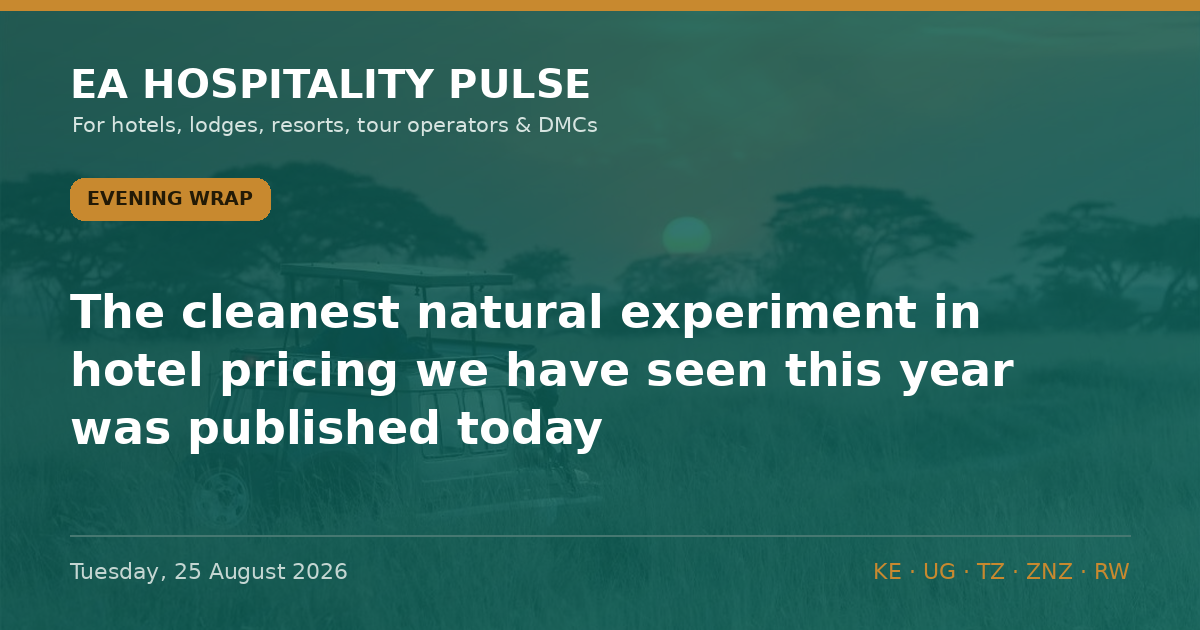
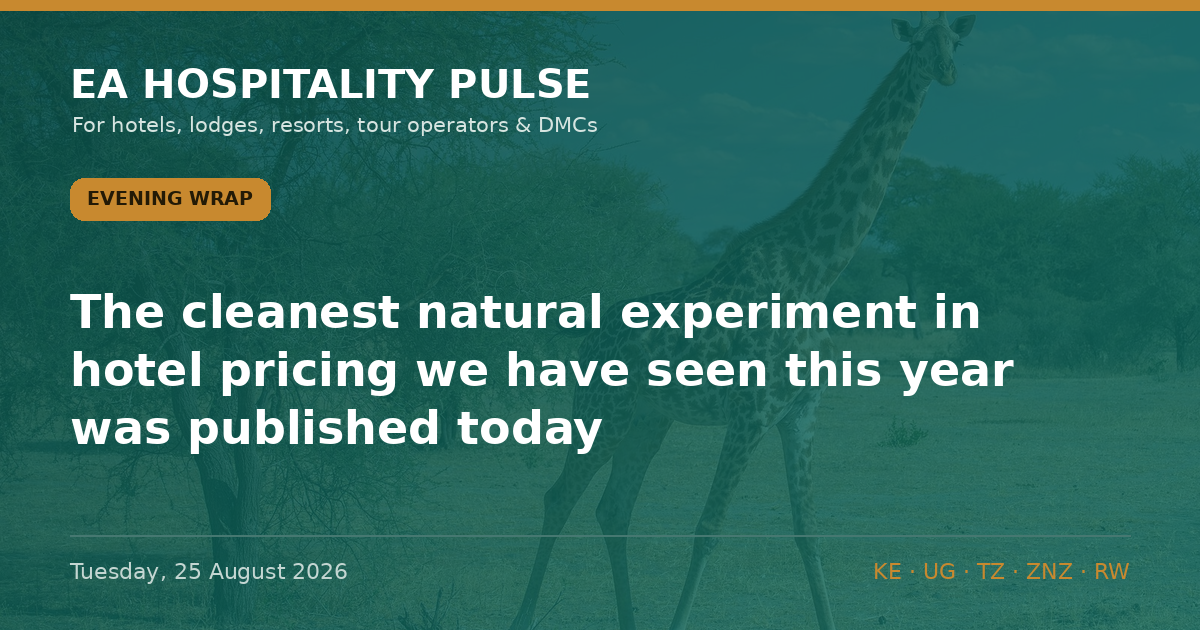
Auto-build: 2026-08-25 13:51 UTC

diff --git a/data.js b/data.js
@@ -117,15 +117,6 @@ window.EDITIONS = [
   "bodyHtml": "<p>☀ <strong>MORNING BRIEF — Tue 19 Aug 2026</strong><br><em>Quiet news slot — one expert read that matters more than any headline.</em></p>\n<p><strong>YOUR FASTEST-GROWING GUEST IS YOUR NEIGHBOUR — AND YOUR GOVERNMENT IS TAXING THEM AT THE BASE</strong></p>\n<p>Read the 2025 source-market tables and the story stops being about Europe. Uganda sent Kenya <strong>234,556 visitors in 2025 — 31% of all African arrivals, up 8.7%</strong>; Tanzania <strong>209,536, up 7.7%</strong> (KTB/TRI data via POATE 2026, reported by Citizen Digital &amp; New Vision). Kenya now targets <strong>300,000 Ugandan arrivals</strong>. In Rwanda it&#x27;s starker: the <strong>DRC is now the single largest source market — 185,420 visitors in H1 2026, 12.5% of all international arrivals</strong> (RDB). The regional guest is the base load now, not the overflow.</p>\n<p><strong>What most operators miss:</strong> the guest base changed but the playbook didn&#x27;t. The marginal booking now comes from a traveller who ignores Western Level-3 advisories, books short, drives or short-hauls in, and pays in a regional currency — yet we still run a long-haul-dollar operation: USD rack rates, GDS/OTA distribution, risk comms aimed at Europe. Worse, the same treasuries celebrating this demand are taxing its most price-sensitive flyer. Kenya&#x27;s JKIA passenger levy is now <strong>pledged to bondholders</strong> (Business Daily, 24 Jul) — hard to cut — with a 2% short-term-rental levy and a proposed travel-health-insurance charge stacking on top. Regional demand shrugs off advisories but is exquisitely sensitive to a $20 levy.</p>\n<p><span class=\"sowhat\">🎯 <strong>So what — by segment:</strong></span><br>🏙 <strong>City:</strong> regional corporate, VFR and events traffic is your steadiest base — build regional-agent and WhatsApp distribution, quote in regional terms, not just a USD rack. 🌿 <strong>Bush:</strong> regional guests are lower-ADR but fill shoulder/low season and hedge advisory-driven long-haul softness — watch the total trip cost, because a park-fee-plus-air-levy stack is what loses them. 🏖 <strong>Beach:</strong> the drive-and-short-haul market (Ugandans/Tanzanians to Diani &amp; Mombasa, regional flyers to Zanzibar) is now year-round base load — protect it from feeder-route fragility and levy creep.<br><span class=\"tagline\">🏷 Regional · Confirmed (KTB/TRI 2025, RDB H1 2026) / Inference on operator response.</span></p>\n<hr class=\"divider\">\n<p>✅ <strong>STILL TRUE</strong> — No EA advisory moved. Kenya <strong>US Level 2</strong> (core corridors, Diani, Watamu clear); Tanzania &amp; Zanzibar <strong>Level 3</strong> (since 31 Oct 2025); Uganda <strong>US Level 4</strong> on residual Ebola grounds despite its 28 Jul outbreak-over call (travel.state.gov, verified 12 Aug). The regional guest travels through all of it — don&#x27;t discount as though it had lifted.<br>💷 <strong>COST PULSE</strong> — Price regional in regional money: KES→UGX <strong>28.36</strong> · KES→TZS <strong>20.30</strong> · KES→RWF <strong>11.31</strong> (CBK weekly). Kenya diesel <strong>KSh 217.86/L</strong> (EPRA, 14 Aug) — refuse any supplier fuel surcharge this cycle.<br><span class=\"meta-line\">📅 <strong>WEEK AHEAD</strong> — <strong>19–21 Aug</strong> Hotel Expo Kenya, KICC · <strong>18–20 Aug</strong> AfPIF, Kigali Marriott · late Aug KNBS/UBOS/NISR CPI · <strong>26–28 Aug</strong> Africa Global PR Week, Nairobi · <strong>4 Sep</strong> Kwita Izina, Musanze.</span><br><span class=\"meta-line\">📡 <strong>RADAR</strong> — 470 in-window observations to 08:38 EAT; feed live. No EA advisory moved (only Mauritania/Netherlands/Ecuador flagged). Jambojet &amp; Airlink press pages moved behind Incapsula — a persistent blind spot, not news. Kenya Law feed heavy with court judgments, none hospitality.</span></p>\n<p>🔗 This edition on the web: <a href=\"https://eahospitalitypulse.com/editions/pulse-2026-08-19-morning.html\" rel=\"noopener\">eahospitalitypulse.com/editions/pulse-2026-08-19-mornin…</a></p>"
  },
  {
-  "id": "pulse-2026-08-18-special",
-  "date": "2026-08-18",
-  "dateDisplay": "Tuesday, 18 August 2026",
-  "edition": "Morning Brief",
-  "editionKey": "morning",
-  "summary": "1⃣ 🇰🇪 THE COAST IS OUTGROWING THE GATEWAY — AND THE NATIONAL NUMBER HIDES IT",
-  "bodyHtml": "<p>📊 <strong>EA HOSPITALITY PULSE — Special Edition</strong><br>🗓 Tuesday 18 August 2026 | 🇰🇪 KNBS data drop</p>\n<p><em>Kenya&#x27;s arrivals are up — but not where the headline says. Read the map before the margin.</em><br>━━━━━━━━━<br><strong>1⃣ 🇰🇪 THE COAST IS OUTGROWING THE GATEWAY — AND THE NATIONAL NUMBER HIDES IT</strong></p>\n<p>Official visitor arrivals now run through April. Jan–Apr 2026: <strong>828,830, up 9.5%</strong> on the same months of 2025 (757,245) — Kenya Leading Economic Indicators, June 2026, KNBS, released 14 Aug.</p>\n<p>The headline is real. The distribution is the story. Mombasa&#x27;s Moi International (MIA) took <strong>96,701 arrivals, up 19.7%</strong> year-on-year, while JKIA grew <strong>8.5%</strong> and land borders <strong>7.5%</strong>. The coast is recovering over twice as fast as the Nairobi gateway.</p>\n<p><strong>What everyone is missing:</strong> the +9.5% is not evenly yours. In April — the long-rains trough — national arrivals rose just 2.9% and <strong>JKIA fell 1.0%</strong> YoY. Strip the coast out and the city-gateway recovery is modest and seasonal. A Nairobi GM reading &quot;+9.5%&quot; as their own demand is reading the wrong line. Backing it: SGR passengers ran <strong>~12% ahead</strong> in Q1 — the Nairobi–Mombasa corridor is carrying this (KNBS).</p>\n<p><span class=\"tagline\">🏷 City/Beach · Kenya · Confirmed (KNBS arrivals &amp; SGR) / Inference (regional read)</span><br><span class=\"sowhat\">🎯 <strong>So what:</strong> <strong>Coast</strong> — demand is arriving; hold rate through the Sep–Oct build and stop discounting. <strong>Nairobi</strong> — treat H1 as flat-to-soft on your own gateway; win share through corporate, MICE and regional traffic, not a rising tide.</span></p>\n<p><strong>2⃣ 🇰🇪 THE CURRENCY IS QUIETLY REPRICING YOUR EUROPEAN GUEST</strong></p>\n<p>Over H1 2026 the shilling <strong>firmed</strong> against sterling (174.32→<strong>172.72</strong>) and the euro (151.37→<strong>149.22</strong>), flat against the dollar at <strong>~129.5</strong> (KNBS, June). Inflation sat at <strong>6.4%</strong>, the CBR held at <strong>8.75%</strong>.</p>\n<p>Read together: a European operator&#x27;s fixed FX budget now buys <strong>fewer shillings</strong> than in January — mild pressure on any KES-cost property selling into Europe, while dollar-priced lodges keep their spread intact.</p>\n<p><span class=\"tagline\">🏷 City/Bush/Beach · Kenya · Confirmed (KNBS forex/CPI) / Inference (pricing read)</span><br><span class=\"sowhat\">🎯 <strong>So what:</strong> If you cost in shillings and sell in euros or pounds, revisit 2027 contract rates now — the FX drift is against you. Price in USD and you&#x27;re insulated.</span></p>\n<p>━━━━━━━━━<br>🍲 <strong>SUPPLY-CHAIN SIDEBAR — where your southern-circuit kitchen shops</strong></p>\n<p>Informal cross-border trade <strong>fell 16.7%</strong> in 2025 (KSh 299.0m→249.1m), and <strong>Tanzania became the top source of informal imports at 47.2%</strong>, overwhelmingly <strong>food and live animals (78.5%)</strong> — KNBS Informal Cross-Border Trade Survey 2025, released 17 Aug. Main entry points: <strong>Namanga, Isebania, Malaba</strong> — the Amboseli, Mara and Uganda corridors.</p>\n<p><span class=\"sowhat\">🎯 <strong>So what:</strong> Southern-circuit lodges run partly on this informal Tanzanian fresh-food flow. A contracting, Tanzania-concentrated supply line is a produce-cost and continuity risk — worth a word with your F&amp;B suppliers before high season. 🏷 Bush · Confirmed (KNBS ICBT) / Inference.</span></p>\n<p>━━━━━━━━━<br>✅ <strong>STILL TRUE</strong> — Kenya remains US <strong>Level 2</strong>; core corridors (Nairobi, Diani, Watamu) sit in no Level 4 area (travel.state.gov, verified 12 Aug). Don&#x27;t discount on a story that hasn&#x27;t moved.</p>\n<p>⚡ <strong>COST PULSE</strong> — Nairobi diesel holds <strong>KSh 217.86/L</strong> to 14 Sep, ~KSh 14.28/L above landed-cost parity (EPRA / Business Daily, 14 Aug).</p>\n<p><span class=\"meta-line\">📅 <strong>WEEK AHEAD</strong> — <strong>19–21 Aug</strong> Hotel Expo Kenya, KICC · <strong>26–28 Aug</strong> Africa Global PR Week, Nairobi. Watch the <strong>May–June arrivals</strong> print to confirm the coast trend.</span></p>\n<p>🔗 This edition on the web: <a href=\"https://eahospitalitypulse.com/editions/pulse-2026-08-18-special.html\" rel=\"noopener\">eahospitalitypulse.com/editions/pulse-2026-08-18-specia…</a><br>— EA Hospitality Pulse | Daily intelligence for city, bush &amp; beach properties</p>"
- },
- {
   "id": "pulse-2026-08-18-morning",
   "date": "2026-08-18",
   "dateDisplay": "Tuesday, 18 August 2026",
@@ -133,6 +124,15 @@ window.EDITIONS = [
   "editionKey": "morning",
   "summary": "1⃣ 🌍 THE AIRLIFT YOU'RE CELEBRATING IS THE LEAST PROFITABLE IN THE WORLD",
   "bodyHtml": "<p>🌅 <strong>EA HOSPITALITY PULSE — Morning Brief</strong><br>🗓 Tuesday 18 August 2026 | 🌍 🇰🇪 🇺🇬 🇷🇼 🇹🇿</p>\n<p><em>Expert Brief: East Africa is adding air routes faster than its airlines can afford to fly them.</em><br>━━━━━━━━━<br><strong>1⃣ 🌍 THE AIRLIFT YOU&#x27;RE CELEBRATING IS THE LEAST PROFITABLE IN THE WORLD</strong></p>\n<p>Every route launch lands as good news in this business. Uganda Airlines opens Entebbe–Accra on 27 Oct and daily Entebbe–Kigali on 18 Nov (announced 5 Aug, The EastAfrican); Airlink starts Cape Town–Zanzibar on 3 Oct. Read the balance sheet underneath and the mood changes.</p>\n<p>IATA&#x27;s December outlook put African carriers at <strong>US$1.30 of profit per passenger</strong> for 2026 against a <strong>US$7.90</strong> global average — a <strong>1.3% margin, the thinnest of any region</strong> (IATA, 9 Dec 2025). By its June AGM it had cut the 2026 line again: profit per passenger down to <strong>40 US cents</strong> from US$2.10 in 2025, and the continent&#x27;s total net profit halved to <strong>~US$100m</strong> (IATA &quot;Energy in Crisis&quot; outlook, 8 Jun 2026). East Africa&#x27;s recovery is riding on the most fragile airlift economics on the planet.</p>\n<p><strong>What everyone is missing:</strong> a new-route press release reads as demand arriving. It is actually thin-margin capacity being <strong>lent</strong> — and thin-margin capacity is the first thing cut when a season underperforms. Turkish suspended 18 routes for summer 2026, Istanbul–Dar es Salaam among them, final flights in May/June (reported 2026). The route you don&#x27;t help fill in its first two seasons is the route that isn&#x27;t there in year three. Airlift is not infrastructure you inherit; it&#x27;s a trade relationship you keep alive.</p>\n<p><span class=\"tagline\">🏷 City/Bush/Beach · Regional · Confirmed (IATA figures &amp; schedules) / Inference (fragility read)</span><br><span class=\"sowhat\">🎯 <strong>So what — by segment:</strong> <strong>City</strong> (Nairobi/Kigali/Kampala): put corporate blocks and MICE contracts onto the new regional frequencies so they survive to a third season. <strong>Bush:</strong> the luxury pivot means fewer, higher-value guests who still need a long-haul seat — cultivate the carriers that actually serve your source markets. <strong>Beach:</strong> feeder routes are the most fragile of all — a trial like Cape Town–Zanzibar lives or dies on load factor. Fill it or lose it.</span></p>\n<p>━━━━━━━━━<br>✅ <strong>STILL TRUE</strong> — Tanzania &amp; Zanzibar remain US <strong>Level 3</strong> (unchanged since 31 Oct 2025); Kenya <strong>Level 2</strong>, core tourist corridors clear (travel.state.gov, verified 12 Aug). Nothing moved overnight. Don&#x27;t discount as though it had.</p>\n<p>⚡ <strong>COST PULSE</strong> — Nairobi diesel holds at <strong>KSh 217.86/L</strong> to 14 Sep; operators are carrying roughly <strong>KSh 14.28/L above landed-cost parity</strong> — refuse any supplier fuel surcharge this cycle (EPRA / Business Daily, 14 Aug).</p>\n<p>🎤 <strong>MICE WATCH</strong> — <strong>AfPIF</strong> (300–500 delegates) fills the Kigali Marriott cluster <strong>18–20 Aug</strong>; <strong>Hotel Expo Kenya</strong> at KICC, <strong>19–21 Aug</strong>. Hold corporate rate, don&#x27;t discount into the shoulder.</p>\n<p><span class=\"meta-line\">📅 <strong>WEEK AHEAD</strong> — <strong>18 Aug</strong> WHO IHR Committee on the Bundibugyo PHEIC · <strong>22 Aug</strong> Julius Nyerere hydropower inauguration, TZ · <strong>26–28 Aug</strong> Africa Global PR Week, Mövenpick Nairobi · <strong>28 Aug</strong> WTA Africa Gala, Zanzibar · <strong>late Aug</strong> KNBS/UBOS/NISR CPI prints.</span></p>\n<p><span class=\"meta-line\">📡 <strong>RADAR</strong> — 593 in-window observations to 08:17 EAT; feed live. Jambojet and Airlink press pages moved again behind Incapsula — a persistent blind spot, not a quiet night. Kenya Law feed heavy with court judgments, none hospitality. No advisory level moved.</span></p>\n<p><span class=\"meta-line\">💬 Which inbound route would you actually miss — and are you filling it, or just watching it?</span></p>\n<p>🔗 This edition on the web: <a href=\"https://eahospitalitypulse.com/editions/pulse-2026-08-18-morning.html\" rel=\"noopener\">eahospitalitypulse.com/editions/pulse-2026-08-18-mornin…</a><br>— EA Hospitality Pulse | Daily intelligence for city, bush &amp; beach properties</p>"
+ },
+ {
+  "id": "pulse-2026-08-18-special",
+  "date": "2026-08-18",
+  "dateDisplay": "Tuesday, 18 August 2026",
+  "edition": "Morning Brief",
+  "editionKey": "morning",
+  "summary": "1⃣ 🇰🇪 THE COAST IS OUTGROWING THE GATEWAY — AND THE NATIONAL NUMBER HIDES IT",
+  "bodyHtml": "<p>📊 <strong>EA HOSPITALITY PULSE — Special Edition</strong><br>🗓 Tuesday 18 August 2026 | 🇰🇪 KNBS data drop</p>\n<p><em>Kenya&#x27;s arrivals are up — but not where the headline says. Read the map before the margin.</em><br>━━━━━━━━━<br><strong>1⃣ 🇰🇪 THE COAST IS OUTGROWING THE GATEWAY — AND THE NATIONAL NUMBER HIDES IT</strong></p>\n<p>Official visitor arrivals now run through April. Jan–Apr 2026: <strong>828,830, up 9.5%</strong> on the same months of 2025 (757,245) — Kenya Leading Economic Indicators, June 2026, KNBS, released 14 Aug.</p>\n<p>The headline is real. The distribution is the story. Mombasa&#x27;s Moi International (MIA) took <strong>96,701 arrivals, up 19.7%</strong> year-on-year, while JKIA grew <strong>8.5%</strong> and land borders <strong>7.5%</strong>. The coast is recovering over twice as fast as the Nairobi gateway.</p>\n<p><strong>What everyone is missing:</strong> the +9.5% is not evenly yours. In April — the long-rains trough — national arrivals rose just 2.9% and <strong>JKIA fell 1.0%</strong> YoY. Strip the coast out and the city-gateway recovery is modest and seasonal. A Nairobi GM reading &quot;+9.5%&quot; as their own demand is reading the wrong line. Backing it: SGR passengers ran <strong>~12% ahead</strong> in Q1 — the Nairobi–Mombasa corridor is carrying this (KNBS).</p>\n<p><span class=\"tagline\">🏷 City/Beach · Kenya · Confirmed (KNBS arrivals &amp; SGR) / Inference (regional read)</span><br><span class=\"sowhat\">🎯 <strong>So what:</strong> <strong>Coast</strong> — demand is arriving; hold rate through the Sep–Oct build and stop discounting. <strong>Nairobi</strong> — treat H1 as flat-to-soft on your own gateway; win share through corporate, MICE and regional traffic, not a rising tide.</span></p>\n<p><strong>2⃣ 🇰🇪 THE CURRENCY IS QUIETLY REPRICING YOUR EUROPEAN GUEST</strong></p>\n<p>Over H1 2026 the shilling <strong>firmed</strong> against sterling (174.32→<strong>172.72</strong>) and the euro (151.37→<strong>149.22</strong>), flat against the dollar at <strong>~129.5</strong> (KNBS, June). Inflation sat at <strong>6.4%</strong>, the CBR held at <strong>8.75%</strong>.</p>\n<p>Read together: a European operator&#x27;s fixed FX budget now buys <strong>fewer shillings</strong> than in January — mild pressure on any KES-cost property selling into Europe, while dollar-priced lodges keep their spread intact.</p>\n<p><span class=\"tagline\">🏷 City/Bush/Beach · Kenya · Confirmed (KNBS forex/CPI) / Inference (pricing read)</span><br><span class=\"sowhat\">🎯 <strong>So what:</strong> If you cost in shillings and sell in euros or pounds, revisit 2027 contract rates now — the FX drift is against you. Price in USD and you&#x27;re insulated.</span></p>\n<p>━━━━━━━━━<br>🍲 <strong>SUPPLY-CHAIN SIDEBAR — where your southern-circuit kitchen shops</strong></p>\n<p>Informal cross-border trade <strong>fell 16.7%</strong> in 2025 (KSh 299.0m→249.1m), and <strong>Tanzania became the top source of informal imports at 47.2%</strong>, overwhelmingly <strong>food and live animals (78.5%)</strong> — KNBS Informal Cross-Border Trade Survey 2025, released 17 Aug. Main entry points: <strong>Namanga, Isebania, Malaba</strong> — the Amboseli, Mara and Uganda corridors.</p>\n<p><span class=\"sowhat\">🎯 <strong>So what:</strong> Southern-circuit lodges run partly on this informal Tanzanian fresh-food flow. A contracting, Tanzania-concentrated supply line is a produce-cost and continuity risk — worth a word with your F&amp;B suppliers before high season. 🏷 Bush · Confirmed (KNBS ICBT) / Inference.</span></p>\n<p>━━━━━━━━━<br>✅ <strong>STILL TRUE</strong> — Kenya remains US <strong>Level 2</strong>; core corridors (Nairobi, Diani, Watamu) sit in no Level 4 area (travel.state.gov, verified 12 Aug). Don&#x27;t discount on a story that hasn&#x27;t moved.</p>\n<p>⚡ <strong>COST PULSE</strong> — Nairobi diesel holds <strong>KSh 217.86/L</strong> to 14 Sep, ~KSh 14.28/L above landed-cost parity (EPRA / Business Daily, 14 Aug).</p>\n<p><span class=\"meta-line\">📅 <strong>WEEK AHEAD</strong> — <strong>19–21 Aug</strong> Hotel Expo Kenya, KICC · <strong>26–28 Aug</strong> Africa Global PR Week, Nairobi. Watch the <strong>May–June arrivals</strong> print to confirm the coast trend.</span></p>\n<p>🔗 This edition on the web: <a href=\"https://eahospitalitypulse.com/editions/pulse-2026-08-18-special.html\" rel=\"noopener\">eahospitalitypulse.com/editions/pulse-2026-08-18-specia…</a><br>— EA Hospitality Pulse | Daily intelligence for city, bush &amp; beach properties</p>"
  },
  {
   "id": "pulse-2026-08-17-evening",
@@ -2917,4 +2917,4 @@ window.INSIGHTS = [
   "editionKey": "evening"
  }
 ];
-window.BUILT_AT = "2026-08-25 16:49";
+window.BUILT_AT = "2026-08-25 13:50";

diff --git a/editions/pulse-2026-08-17-evening.html b/editions/pulse-2026-08-17-evening.html
@@ -170,7 +170,7 @@ footer.s a:hover{color:var(--teal-d);border-bottom-color:var(--gold)}
 <p>🔗 This edition on the web: <a href="https://eahospitalitypulse.com/editions/pulse-2026-08-17-evening.html" rel="noopener">eahospitalitypulse.com/editions/pulse-2026-08-17-evenin…</a><br>💼 Today&#x27;s Big Read on LinkedIn: <a href="https://www.linkedin.com/company/ea-hospitality-pulse/" rel="noopener">linkedin.com/company/ea-hospitality-pulse/</a><br>— EA Hospitality Pulse | Daily intelligence for city, bush &amp; beach properties</p>
     <div class="more"><b>More from Monday, 17 August 2026:</b> <a href="pulse-2026-08-17-midday.html">Midday Pulse</a></div>
     <aside class="refs" aria-label="Reference guides"><h2>Reference</h2><ul><li><a href="../guides/ota-commission-what-it-actually-costs.html">What OTA commission actually costs an East African hotel</a></li><li><a href="../guides/park-permit-fees-east-africa.html">Park and permit fees across East Africa: what to check before you quote</a></li><li><a href="../guides/sustainability-compliance-east-africa.html">Sustainability compliance in East Africa — plastics, carbon and certification, without the hype</a></li><li><a href="../guides/tech-stack-east-africa.html">The East African hotel tech stack — payment costs, PMS fit and where AI pricing actually works</a></li><li><a href="../guides/travel-advisories-what-actually-moves-bookings.html">Reading a travel advisory: what actually moves bookings</a></li></ul></aside>
-    <nav class="pnrow"><a class="pn prev" href="pulse-2026-08-17-midday.html" rel="prev">← Midday Pulse · Monday, 17 August 2026</a><a class="pn next" href="pulse-2026-08-18-morning.html" rel="next">Morning Brief · Tuesday, 18 August 2026 →</a></nav>
+    <nav class="pnrow"><a class="pn prev" href="pulse-2026-08-17-midday.html" rel="prev">← Midday Pulse · Monday, 17 August 2026</a><a class="pn next" href="pulse-2026-08-18-special.html" rel="next">Morning Brief · Tuesday, 18 August 2026 →</a></nav>
     <div class="sub">
       <b>Follow the Pulse</b> — three briefs a day across Kenya, Uganda, Tanzania, Zanzibar &amp; Rwanda.<br>
       <a href="https://t.me/eahospitalitypulse" target="_blank" rel="noopener">📣 Telegram (full editions)</a>

diff --git a/editions/pulse-2026-08-18-morning.html b/editions/pulse-2026-08-18-morning.html
@@ -172,7 +172,7 @@ footer.s a:hover{color:var(--teal-d);border-bottom-color:var(--gold)}
 <p>🔗 This edition on the web: <a href="https://eahospitalitypulse.com/editions/pulse-2026-08-18-morning.html" rel="noopener">eahospitalitypulse.com/editions/pulse-2026-08-18-mornin…</a><br>— EA Hospitality Pulse | Daily intelligence for city, bush &amp; beach properties</p>
     <div class="more"><b>More from Tuesday, 18 August 2026:</b> <a href="pulse-2026-08-18-special.html">Morning Brief</a></div>
     <aside class="refs" aria-label="Reference guides"><h2>Reference</h2><ul><li><a href="../guides/ota-commission-what-it-actually-costs.html">What OTA commission actually costs an East African hotel</a></li><li><a href="../guides/park-permit-fees-east-africa.html">Park and permit fees across East Africa: what to check before you quote</a></li><li><a href="../guides/sustainability-compliance-east-africa.html">Sustainability compliance in East Africa — plastics, carbon and certification, without the hype</a></li><li><a href="../guides/tech-stack-east-africa.html">The East African hotel tech stack — payment costs, PMS fit and where AI pricing actually works</a></li><li><a href="../guides/travel-advisories-what-actually-moves-bookings.html">Reading a travel advisory: what actually moves bookings</a></li></ul></aside>
-    <nav class="pnrow"><a class="pn prev" href="pulse-2026-08-17-evening.html" rel="prev">← Evening Wrap · Monday, 17 August 2026</a><a class="pn next" href="pulse-2026-08-18-special.html" rel="next">Morning Brief · Tuesday, 18 August 2026 →</a></nav>
+    <nav class="pnrow"><a class="pn prev" href="pulse-2026-08-18-special.html" rel="prev">← Morning Brief · Tuesday, 18 August 2026</a><a class="pn next" href="pulse-2026-08-19-morning.html" rel="next">Morning Brief · Wednesday, 19 August 2026 →</a></nav>
     <div class="sub">
       <b>Follow the Pulse</b> — three briefs a day across Kenya, Uganda, Tanzania, Zanzibar &amp; Rwanda.<br>
       <a href="https://t.me/eahospitalitypulse" target="_blank" rel="noopener">📣 Telegram (full editions)</a>

diff --git a/editions/pulse-2026-08-18-special.html b/editions/pulse-2026-08-18-special.html
@@ -176,7 +176,7 @@ footer.s a:hover{color:var(--teal-d);border-bottom-color:var(--gold)}
 <p>🔗 This edition on the web: <a href="https://eahospitalitypulse.com/editions/pulse-2026-08-18-special.html" rel="noopener">eahospitalitypulse.com/editions/pulse-2026-08-18-specia…</a><br>— EA Hospitality Pulse | Daily intelligence for city, bush &amp; beach properties</p>
     <div class="more"><b>More from Tuesday, 18 August 2026:</b> <a href="pulse-2026-08-18-morning.html">Morning Brief</a></div>
     <aside class="refs" aria-label="Reference guides"><h2>Reference</h2><ul><li><a href="../guides/ota-commission-what-it-actually-costs.html">What OTA commission actually costs an East African hotel</a></li><li><a href="../guides/park-permit-fees-east-africa.html">Park and permit fees across East Africa: what to check before you quote</a></li><li><a href="../guides/sustainability-compliance-east-africa.html">Sustainability compliance in East Africa — plastics, carbon and certification, without the hype</a></li><li><a href="../guides/tech-stack-east-africa.html">The East African hotel tech stack — payment costs, PMS fit and where AI pricing actually works</a></li><li><a href="../guides/travel-advisories-what-actually-moves-bookings.html">Reading a travel advisory: what actually moves bookings</a></li></ul></aside>
-    <nav class="pnrow"><a class="pn prev" href="pulse-2026-08-18-morning.html" rel="prev">← Morning Brief · Tuesday, 18 August 2026</a><a class="pn next" href="pulse-2026-08-19-morning.html" rel="next">Morning Brief · Wednesday, 19 August 2026 →</a></nav>
+    <nav class="pnrow"><a class="pn prev" href="pulse-2026-08-17-evening.html" rel="prev">← Evening Wrap · Monday, 17 August 2026</a><a class="pn next" href="pulse-2026-08-18-morning.html" rel="next">Morning Brief · Tuesday, 18 August 2026 →</a></nav>
     <div class="sub">
       <b>Follow the Pulse</b> — three briefs a day across Kenya, Uganda, Tanzania, Zanzibar &amp; Rwanda.<br>
       <a href="https://t.me/eahospitalitypulse" target="_blank" rel="noopener">📣 Telegram (full editions)</a>

diff --git a/editions/pulse-2026-08-19-morning.html b/editions/pulse-2026-08-19-morning.html
@@ -168,7 +168,7 @@ footer.s a:hover{color:var(--teal-d);border-bottom-color:var(--gold)}
 <p>🔗 This edition on the web: <a href="https://eahospitalitypulse.com/editions/pulse-2026-08-19-morning.html" rel="noopener">eahospitalitypulse.com/editions/pulse-2026-08-19-mornin…</a></p>
     <div class="more"><b>More from Wednesday, 19 August 2026:</b> <a href="pulse-2026-08-19-evening.html">Evening Wrap</a></div>
     <aside class="refs" aria-label="Reference guides"><h2>Reference</h2><ul><li><a href="../guides/ota-commission-what-it-actually-costs.html">What OTA commission actually costs an East African hotel</a></li><li><a href="../guides/park-permit-fees-east-africa.html">Park and permit fees across East Africa: what to check before you quote</a></li><li><a href="../guides/sustainability-compliance-east-africa.html">Sustainability compliance in East Africa — plastics, carbon and certification, without the hype</a></li><li><a href="../guides/tech-stack-east-africa.html">The East African hotel tech stack — payment costs, PMS fit and where AI pricing actually works</a></li><li><a href="../guides/travel-advisories-what-actually-moves-bookings.html">Reading a travel advisory: what actually moves bookings</a></li></ul></aside>
-    <nav class="pnrow"><a class="pn prev" href="pulse-2026-08-18-special.html" rel="prev">← Morning Brief · Tuesday, 18 August 2026</a><a class="pn next" href="pulse-2026-08-19-evening.html" rel="next">Evening Wrap · Wednesday, 19 August 2026 →</a></nav>
+    <nav class="pnrow"><a class="pn prev" href="pulse-2026-08-18-morning.html" rel="prev">← Morning Brief · Tuesday, 18 August 2026</a><a class="pn next" href="pulse-2026-08-19-evening.html" rel="next">Evening Wrap · Wednesday, 19 August 2026 →</a></nav>
     <div class="sub">
       <b>Follow the Pulse</b> — three briefs a day across Kenya, Uganda, Tanzania, Zanzibar &amp; Rwanda.<br>
       <a href="https://t.me/eahospitalitypulse" target="_blank" rel="noopener">📣 Telegram (full editions)</a>

diff --git a/editions/pulse-2026-08-25-evening.html b/editions/pulse-2026-08-25-evening.html
@@ -153,7 +153,7 @@ footer.s a:hover{color:var(--teal-d);border-bottom-color:var(--gold)}
 <div class="wrap">
   <article class="art">
     <img class="hero" src="../og/pulse-2026-08-25-evening-clean.png" alt="Evening Wrap — Tuesday, 25 August 2026" loading="eager">
-    
+    <p class="hcredit">Photo: Jorge Láscar from Melbourne, Australia · <a href="https://commons.wikimedia.org/wiki/File:Giraffe_(48798750092).jpg" target="_blank" rel="noopener nofollow">Wikimedia Commons</a> · <a href="https://creativecommons.org/licenses/by/2.0" target="_blank" rel="noopener nofollow">CC BY 2.0</a></p>
     <nav class="crumbs" aria-label="Breadcrumb"><a href="../index.html">Home</a><span aria-hidden="true">/</span><a href="../index.html#archive">Editions</a><span aria-hidden="true">/</span><span aria-current="page">Evening Wrap, Tuesday, 25 August 2026</span></nav>
     <div class="kicker"><span class="badge">Evening Wrap</span><time datetime="2026-08-25">Tuesday, 25 August 2026</time></div>
     <h1>The cleanest natural experiment in hotel pricing we have seen this year was published today.</h1>

diff --git a/index.html b/index.html
@@ -456,7 +456,7 @@
   .imp-demand{color:var(--sage)} .imp-margin{color:var(--coral)} .imp-risk{color:#ff5b5b} .imp-watch{color:var(--amber)}
   @media(max-width:520px){.imp{position:static;display:inline-flex;margin:0 0 9px}.insight h3,.insight .imeta{padding-right:0}}
 </style>
-<!--BUILD_STAMP:20260825-1649--></head>
+<!--BUILD_STAMP:20260825-1350--></head>
 <body>
 <header class="site">
   <div class="wrap topbar">

diff --git a/ledger.js b/ledger.js
@@ -1,5 +1,5 @@
 window.LEDGER = {
- "updated": "2026-08-25 16:49",
+ "updated": "2026-08-25 13:51",
  "stats": {
   "total": 128,
   "open": 105,
